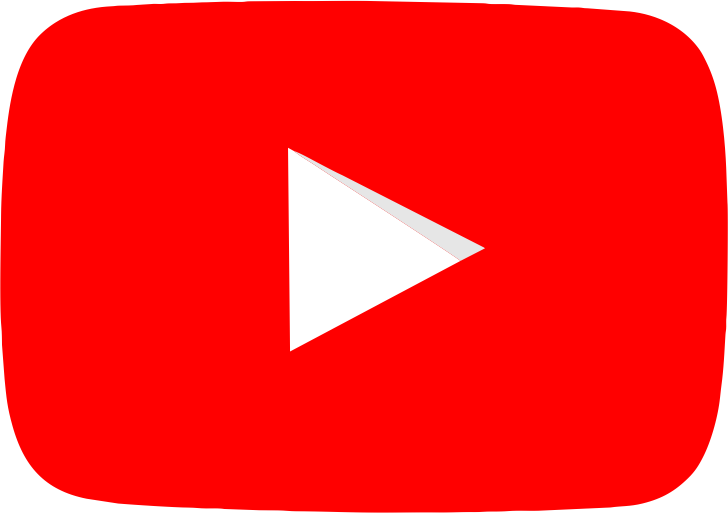
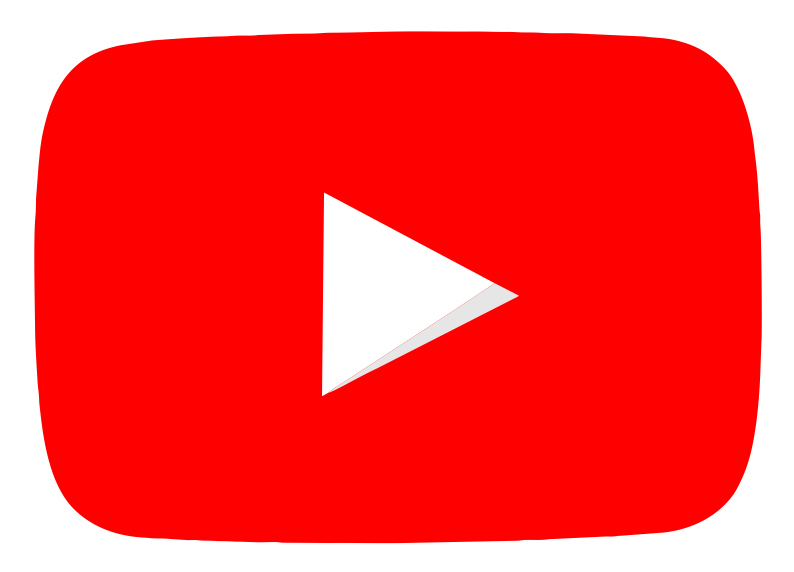
ui

Changed region(s): [[0.0, 0.0, 1.0, 1.0], [0.3929, 0.2807, 0.6648, 0.6862]]

diff --git a/index.html b/index.html
@@ -102,8 +102,8 @@
         </div>
         <h2 class="expert-heading my-6">What NEET Aspirants say about us...</h2>
         <div class="slider_nav">
-            <button class="btn-prev"><i class="fa-solid fa-left-long"></i></button>
-            <button class="btn-next"><i class="fa-solid fa-right-long"></i></button>
+            <button class="btn-prev"><i class="fas fa-chevron-left"></i></button>
+            <button class="btn-next"><i class="fas fa-chevron-right"></i></button>
         </div>
         <div class="owl-carousel youtube-link" id="owl-carousel">
             <div class="youtube-item">
@@ -133,8 +133,8 @@
             <h4 class="mx-2">What clients say about us...</h4>
         </div>
         <div class="slider_nav">
-            <button class="am-prev"><i class="fa-solid fa-left-long"></i></button>
-            <button class="am-next"><i class="fa-solid fa-right-long"></i></button>
+            <button class="am-prev"><i class="fas fa-chevron-left"></i></button>
+            <button class="am-next"><i class="fas fa-chevron-right"></i></button>
         </div>
         <div class="owl-carousel" id="testimonial-owl-carousel">
             <div>
@@ -200,16 +200,16 @@
                     <h5>Follow Us</h5>
                     <div class="link-items">
                         <a href="https://www.facebook.com/NEETADVISOR" target="_blank">
-                            <img height="30px" width="30px" src="./assets/images/FACEBOOK.webp" alt="facebook page">
+                            <img height="30px" width="30px" src="./assets/images/FACEBOOK.png" alt="facebook page">
                         </a>
                         <a href="https://www.instagram.com/neetadvisor_com/" target="_blank">
                             <img height="30px" width="30px" src="./assets/images/INSTAGRAM.webp" alt="instagra page">
                         </a>
                         <a href="https://www.linkedin.com/company/neetadvisordotcom/?originalSubdomain=in" target="_blank">
-                            <i class="fa-brands fa-linkedin fa-2xl"></i>
+                            <img height="30px" width="30px" src="./assets/images/linked.png" alt="linkedin">
                         </a>
                         <a href="https://www.youtube.com/channel/UCiJqbK5EeRtijkCgqwP5e4A" target="_blank">
-                            <img height="30px" width="45px" src="./assets/images/YOUTUBE.webp" alt="youtube page">
+                            <img height="30px" width="45px" src="./assets/images/YOUTUBE.png" alt="youtube page">
                         </a>
                     </div>
                 </div>

diff --git a/style.css b/style.css
@@ -32,15 +32,18 @@
     max-width: 150px;
     width: 100%;
     border: solid 1px black;
+    border-radius: 10px;
     color: black;
     background-color: white;
     padding: 5px;
     font-size: large;
-    transition: all ease-in-out 0.1s;
+    transition: all ease-in-out 0.5s;
   }
   .owl-carousel .owl-nav .btn-prev:hover,.owl-carousel .owl-nav .btn-next:hover,.owl-carousel .owl-nav .am-prev:hover,.owl-carousel .owl-nav .am-next:hover{
     /* box-shadow: 2px 2px 5px gainsboro; */
-   background-color: gainsboro;
+   background-color:#21106A;
+   color: white;
+   border: none;
   }
 
   section {
